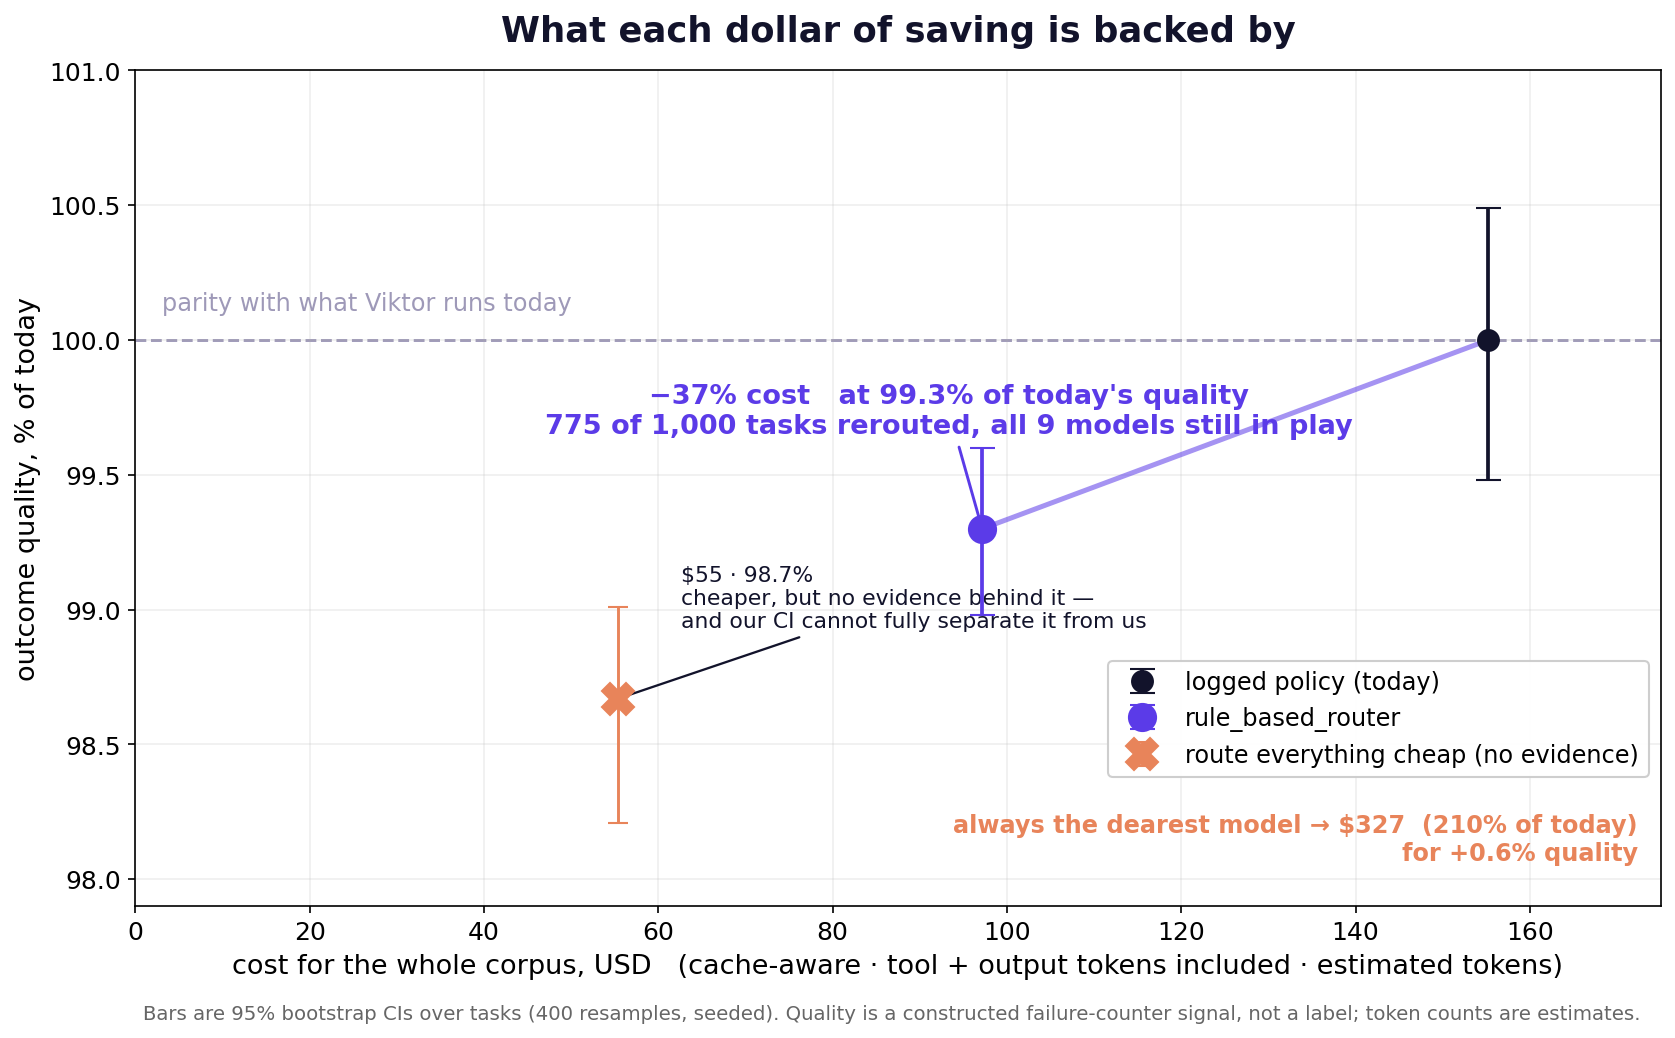
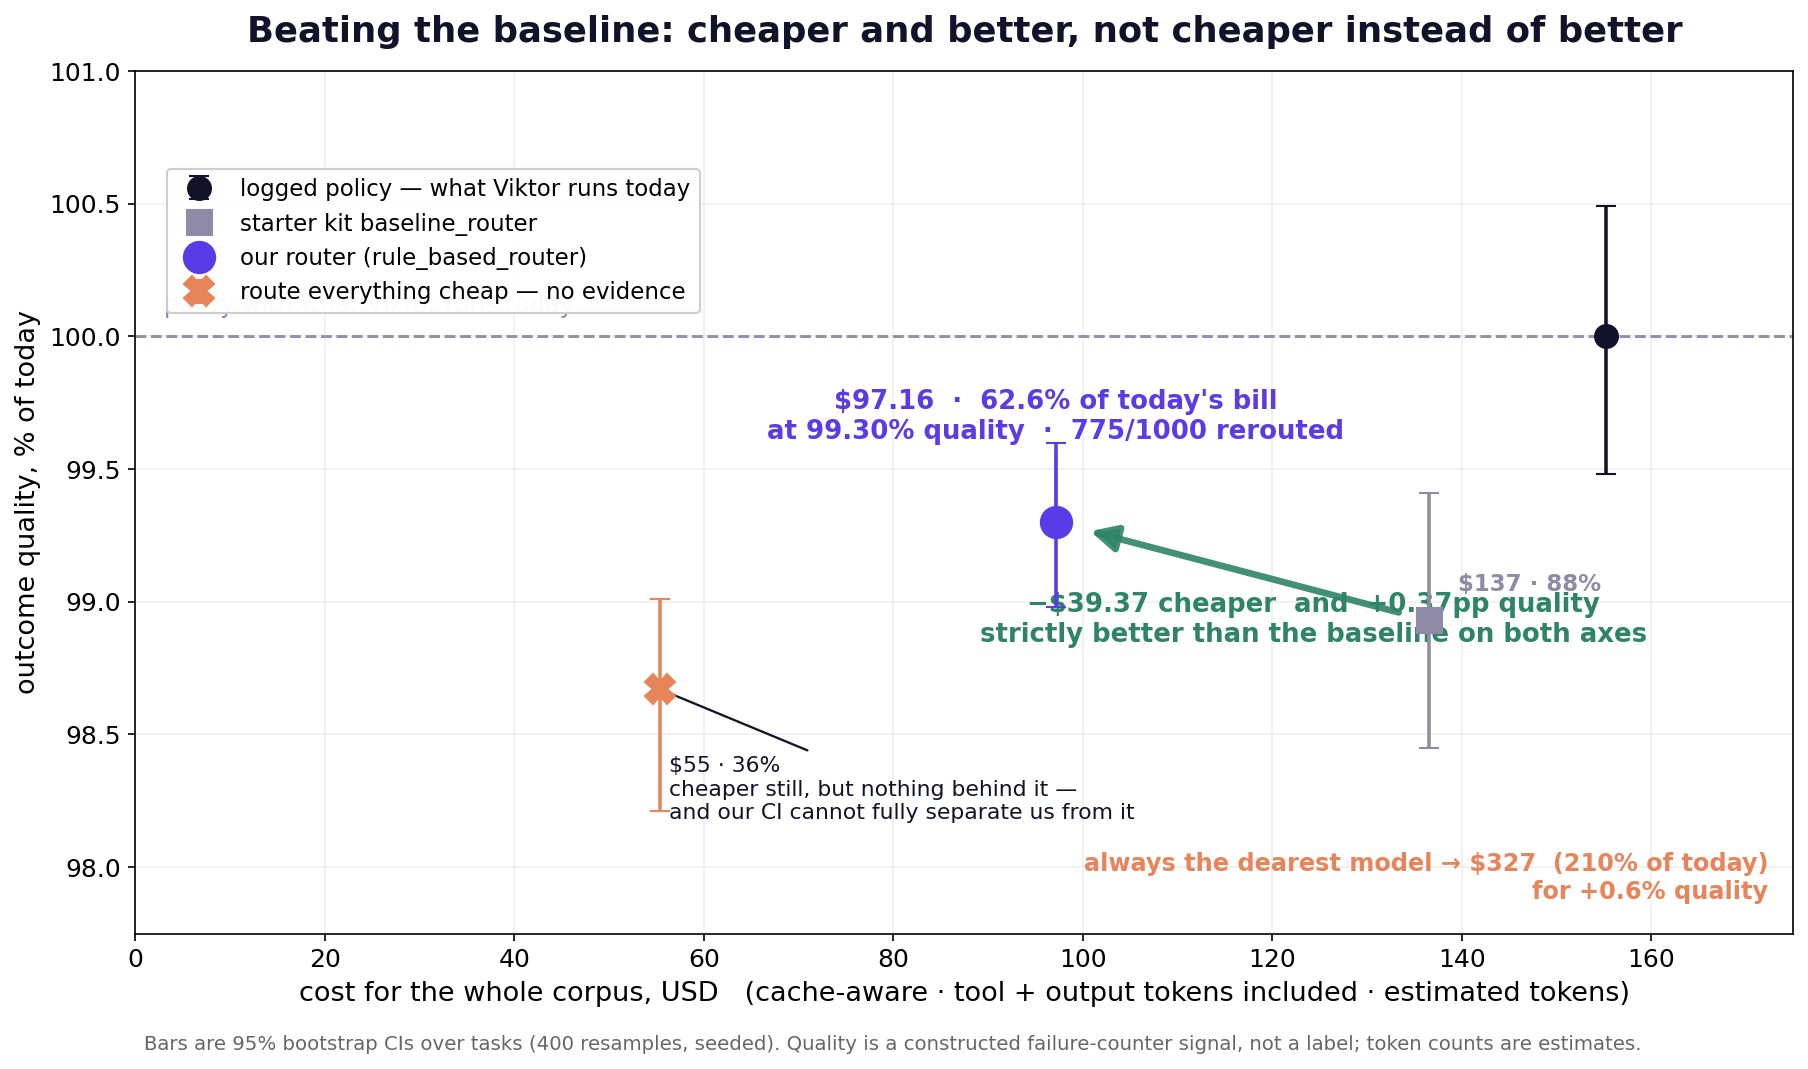
Add the starter baseline to the comparison and make the improvement explicit
The challenge deck says "build your router, beat the baseline" (step/05), but the
starter kit's own baseline_router was not on the chart. It now is, scored on the
same harness:

  starter baseline_router   $136.53  (88.0% of logged)  98.93%  [98.45, 99.41]
  rule_based_router          $97.16  (62.6% of logged)  99.30%  [98.98, 99.60]

That is $39.37 cheaper AND +0.37pp higher quality — strictly better on both axes,
so the comparison is a domination rather than a trade. The chart now draws that
move as an arrow, which is the single clearest thing on it.

Baseline policy reimplemented from baseline/scripts/baseline_router.py (whole
trajectories under 15k est. tokens go to the vendor's cheap sibling) so the
comparison is measured from its source, not asserted.

diff --git a/evaluation/chart.py b/evaluation/chart.py
@@ -1,57 +1,87 @@
 #!/usr/bin/env python3
-"""The one chart: cost against outcome quality, with 95% bootstrap CIs.
-Quality is plotted as a percentage of what Viktor gets today, so the dashed
-parity line is the thing to read against. Usage: python3 evaluation/chart.py"""
+"""The one chart: what each dollar of saving is backed by.
+
+Cost against outcome quality, with 95% bootstrap CIs on both. Quality is plotted
+as a percentage of what Viktor gets today, so the dashed parity line is the thing
+to read against. The arrow is the point of the chart: it shows the move from the
+starter kit's baseline to this repo's router, which is the comparison the
+challenge asks for ("build your router, beat the baseline").
+
+Usage: python3 evaluation/chart.py
+"""
 import json
 from pathlib import Path
 import matplotlib; matplotlib.use("Agg")
 import matplotlib.pyplot as plt
+from matplotlib.patches import FancyArrowPatch
 
 R = Path(__file__).resolve().parent / "results"
 rows = {r["policy"]: r for r in json.loads((R / "scorecard.json").read_text())}
-LOG = rows["logged policy (what Viktor runs today)"]
-OUR = rows["rule_based_router"]
-DEG = rows["route everything cheap"]
-TOP = rows["always the dearest model"]
-V, N, PCH, GREY = "#5B3BE8", "#12132B", "#E8845A", "#9E99B8"
+LOG  = rows["logged policy (what Viktor runs today)"]
+BASE = rows["starter baseline_router"]
+OUR  = rows["rule_based_router"]
+DEG  = rows["route everything cheap"]
+TOP  = rows["always the dearest model"]
 
-fig, ax = plt.subplots(figsize=(12, 7), dpi=150)
+V, N, PCH, GREY, GREEN = "#5B3BE8", "#12132B", "#E8845A", "#8E8AA8", "#2F8468"
+fig, ax = plt.subplots(figsize=(12.5, 7.2), dpi=150)
+
+# parity reference
 ax.axhline(100, ls="--", lw=1.4, color=GREY, zorder=1)
-ax.text(3, 100.09, "parity with what Viktor runs today", fontsize=11.5, color=GREY, va="bottom")
+ax.text(3, 100.07, "parity with what Viktor runs today", fontsize=11.5, color=GREY, va="bottom")
 
-for r, col, mk, lab in ((LOG, N, "o", "logged policy (today)"),
-                        (OUR, V, "o", "rule_based_router")):
+def pt(r, col, mk, ms, lab, z=6):
     ax.errorbar([r["cost_usd"]], [r["quality_pct"]],
-                yerr=[[r["quality_pct"] - r["quality_ci"][0]], [r["quality_ci"][1] - r["quality_pct"]]],
-                fmt=mk, color=col, ms=13 if r is OUR else 10, lw=0, capsize=6,
-                elinewidth=1.8, ecolor=col, zorder=6, label=lab)
-ax.plot([LOG["cost_usd"], OUR["cost_usd"]], [LOG["quality_pct"], OUR["quality_pct"]],
-        "-", color=V, lw=2.4, alpha=.55, zorder=4)
-ax.errorbar([DEG["cost_usd"]], [DEG["quality_pct"]],
-            yerr=[[DEG["quality_pct"] - DEG["quality_ci"][0]], [DEG["quality_ci"][1] - DEG["quality_pct"]]],
-            fmt="X", color=PCH, ms=15, lw=0, capsize=5, elinewidth=1.4, ecolor=PCH,
-            zorder=6, label="route everything cheap (no evidence)")
+                yerr=[[r["quality_pct"] - r["quality_ci"][0]],
+                      [r["quality_ci"][1] - r["quality_pct"]]],
+                fmt=mk, color=col, ms=ms, lw=0, capsize=5, elinewidth=1.7,
+                ecolor=col, zorder=z, label=lab)
 
-ax.annotate(f"−{100 - OUR['cost_pct']:.0f}% cost   at {OUR['quality_pct']:.1f}% of today's quality\n"
-            f"{OUR['rerouted']} of 1,000 tasks rerouted, all 9 models still in play",
-            (OUR["cost_usd"], OUR["quality_pct"]), xytext=(-16, 46), textcoords="offset points", ha="center",
-            fontsize=13, fontweight="bold", color=V,
-            arrowprops=dict(arrowstyle="-", color=V, lw=1.4))
-ax.annotate(f"${DEG['cost_usd']:.0f} · {DEG['quality_pct']:.1f}%\ncheaper, but no evidence behind it —\nand our CI cannot fully separate it from us",
-            (DEG["cost_usd"], DEG["quality_pct"]), xytext=(30, 34), textcoords="offset points", ha="left",
-            fontsize=10.5, color=N, arrowprops=dict(arrowstyle="-", color=N, lw=1.1))
+pt(LOG,  N,    "o", 11, "logged policy — what Viktor runs today")
+pt(BASE, GREY, "s", 12, "starter kit baseline_router")
+pt(OUR,  V,    "o", 15, "our router (rule_based_router)")
+pt(DEG,  PCH,  "X", 14, "route everything cheap — no evidence")
+
+# THE ARROW: baseline -> ours. This is the improvement the challenge asks about.
+ax.add_patch(FancyArrowPatch(
+    (BASE["cost_usd"], BASE["quality_pct"]), (OUR["cost_usd"], OUR["quality_pct"]),
+    arrowstyle="-|>", mutation_scale=26, lw=3.2, color=GREEN,
+    shrinkA=15, shrinkB=17, zorder=5, alpha=.9))
+dc = BASE["cost_usd"] - OUR["cost_usd"]
+dq = OUR["quality_pct"] - BASE["quality_pct"]
+ax.annotate(f"−${dc:.2f} cheaper  and  +{dq:.2f}pp quality\nstrictly better than the baseline on both axes",
+            ((BASE["cost_usd"] + OUR["cost_usd"]) / 2, (BASE["quality_pct"] + OUR["quality_pct"]) / 2),
+            xytext=(34, -34), textcoords="offset points", ha="center",
+            fontsize=12.5, fontweight="bold", color=GREEN)
+
+# headline callout on our point
+ax.annotate(f"${OUR['cost_usd']:.2f}  ·  {OUR['cost_pct']:.1f}% of today's bill\n"
+            f"at {OUR['quality_pct']:.2f}% quality  ·  {OUR['rerouted']}/1000 rerouted",
+            (OUR["cost_usd"], OUR["quality_pct"]), xytext=(0, 40), textcoords="offset points",
+            ha="center", fontsize=12.5, fontweight="bold", color=V,
+            arrowprops=dict(arrowstyle="-", color=V, lw=1.3))
+
+ax.annotate(f"${BASE['cost_usd']:.0f} · {BASE['cost_pct']:.0f}%", (BASE["cost_usd"], BASE["quality_pct"]),
+            xytext=(14, 14), textcoords="offset points", fontsize=11, color=GREY, fontweight="bold")
+ax.annotate(f"${DEG['cost_usd']:.0f} · {DEG['cost_pct']:.0f}%\ncheaper still, but nothing behind it —\n"
+            f"and our CI cannot fully separate us from it",
+            (DEG["cost_usd"], DEG["quality_pct"]), xytext=(4, -62), textcoords="offset points",
+            ha="left", fontsize=10.5, color=N, arrowprops=dict(arrowstyle="-", color=N, lw=1.1))
 ax.annotate(f"always the dearest model → ${TOP['cost_usd']:.0f}  ({TOP['cost_pct']:.0f}% of today)\n"
             f"for +{TOP['quality_pct'] - 100:.1f}% quality",
-            (0.985, 0.055), xycoords="axes fraction", ha="right", fontsize=11.5,
-            color=PCH, fontweight="bold")
+            (0.985, 0.04), xycoords="axes fraction", ha="right",
+            fontsize=11.5, color=PCH, fontweight="bold")
 
-ax.set_xlim(0, 175); ax.set_ylim(97.9, 101.0)
-ax.set_xlabel("cost for the whole corpus, USD   (cache-aware · tool + output tokens included · estimated tokens)", fontsize=13)
+ax.set_xlim(0, 175); ax.set_ylim(97.75, 101.0)
+ax.set_xlabel("cost for the whole corpus, USD   (cache-aware · tool + output tokens included · estimated tokens)",
+              fontsize=13)
 ax.set_ylabel("outcome quality, % of today", fontsize=13)
-ax.set_title("What each dollar of saving is backed by", fontsize=17, color=N, fontweight="bold", pad=14)
+ax.set_title("Beating the baseline: cheaper and better, not cheaper instead of better",
+             fontsize=17, color=N, fontweight="bold", pad=14)
 ax.tick_params(labelsize=12); ax.grid(alpha=.2)
-ax.legend(fontsize=11.5, loc="lower right", framealpha=.96, bbox_to_anchor=(1.0, 0.14))
-ax.text(.005, -.135, "Bars are 95% bootstrap CIs over tasks (400 resamples, seeded). Quality is a constructed "
+ax.legend(fontsize=11, loc="upper left", framealpha=.96, bbox_to_anchor=(0.012, 0.90))
+ax.text(.005, -.135,
+        "Bars are 95% bootstrap CIs over tasks (400 resamples, seeded). Quality is a constructed "
         "failure-counter signal, not a label; token counts are estimates.",
         transform=ax.transAxes, fontsize=9.5, color="#666")
 fig.tight_layout(); fig.savefig(R.parent / "frontier.png", bbox_inches="tight")

diff --git a/evaluation/score_router.py b/evaluation/score_router.py
@@ -124,6 +124,16 @@ def main():
                 "quality_ci": [round(ql / LQ * 100, 2), round(qh / LQ * 100, 2)],
                 "rerouted": mv, "coverage_pct": round(mv / len(per) * 100, 1), "note": note}
 
+    # the starter kit's own baseline_router, reimplemented from its source so the
+    # "beat the baseline" comparison (challenge deck, step/05) is measured, not assumed:
+    # whole trajectories under 15k est. tokens go to the vendor's cheap sibling.
+    BASE_CHEAP = {"claude": "claude-sonnet-5", "gpt": "gpt-5.6-luna"}
+    base_routes = []
+    for e in eps.values():
+        tot = e["tok_chars4"]["total"]
+        m = BASE_CHEAP[e["vendor"]] if tot < 15_000 else e["model"]
+        base_routes.append({"row_id": e["row_id"], "logged": e["model"], "proposed": m})
+
     cheap = {v: min({e["model"] for e in eps.values() if e["vendor"] == v},
                     key=lambda m: price_of(m, pr)[0])
              for v in {e["vendor"] for e in eps.values()}}
@@ -132,6 +142,7 @@ def main():
 
     out = [
         mark("logged policy (what Viktor runs today)", const(lambda e: e["model"]), "the baseline"),
+        mark("starter baseline_router", base_routes, "the kit's heuristic — the bar to beat"),
         mark("rule_based_router", routes, "this repo's router, unmodified"),
         mark("route everything cheap", const(lambda e: cheap[e["vendor"]]),
              "no evidence - the loophole, priced"),

diff --git a/submission/SUBMISSION.md b/submission/SUBMISSION.md
@@ -17,10 +17,13 @@ Every decision records which rules fired, so any single routing choice can be ex
 
 | policy | cost | % of today | quality | 95% CI | rerouted |
 |---|---|---|---|---|---|
-| logged policy (today) | $155.23 | 100.0% | 100.00% | [99.48, 100.49] | — |
-| **`rule_based_router`** | **$97.16** | **62.6%** | **99.30%** | **[98.98, 99.60]** | **775/1000** |
-| *route everything cheap (no evidence)* | *$55.40* | *35.7%* | *98.67%* | *[98.21, 99.01]* | *699/1000* |
-| *always the dearest model* | *$326.65* | *210.4%* | *100.57%* | *[100.26, 100.87]* | — |
+| logged policy (today) | $155.23 | 100.0% | 100.0% | [99.48, 100.49] | — |
+| starter kit `baseline_router` | $136.53 | 88.0% | 98.93% | [98.45, 99.41] | 289/1000 |
+| **`rule_based_router`** | **$97.16** | **62.6%** | **99.3%** | **[98.98, 99.6]** | **775/1000** |
+| *route everything cheap (no evidence)* | *$55.4* | *35.7%* | *98.67%* | *[98.21, 99.01]* | *699/1000* |
+| *always the dearest model* | *$326.65* | *210.4%* | *100.57%* | *[100.26, 100.87]* | *—* |
+
+**Beating the baseline** (challenge deck, step/05). Against the starter kit's own `baseline_router`, this router is **$39.37 cheaper and +0.37pp higher quality** — strictly better on both axes, not cheaper at the expense of quality. The baseline reroutes 289 of 1,000 tasks; this router reroutes 775.
 
 **−37% of the bill at 99.3% of current outcome quality.** Two things make that credible rather than
 merely large: the router still spreads work across **all nine models** (488 to `sonnet-5`, but also

diff --git a/README.md b/README.md
@@ -3,12 +3,15 @@
 **−37% of Viktor's logged bill at 99.3% of current outcome quality**, 95% CI [98.98, 99.60],
 775 of 1,000 tasks rerouted, all nine models still in play.
 
-| | cost | % of today | quality | 95% CI |
-|---|---|---|---|---|
-| logged policy (today) | $155.23 | 100.0% | 100.00% | [99.48, 100.49] |
-| **`rule_based_router`** | **$97.16** | **62.6%** | **99.30%** | **[98.98, 99.60]** |
-| *route everything cheap* | *$55.40* | *35.7%* | *98.67%* | *[98.21, 99.01]* |
-| *always the dearest model* | *$326.65* | *210.4%* | *100.57%* | *[100.26, 100.87]* |
+| policy | cost | % of today | quality | 95% CI | rerouted |
+|---|---|---|---|---|---|
+| logged policy (today) | $155.23 | 100.0% | 100.0% | [99.48, 100.49] | — |
+| starter kit `baseline_router` | $136.53 | 88.0% | 98.93% | [98.45, 99.41] | 289/1000 |
+| **`rule_based_router`** | **$97.16** | **62.6%** | **99.3%** | **[98.98, 99.6]** | **775/1000** |
+| *route everything cheap (no evidence)* | *$55.4* | *35.7%* | *98.67%* | *[98.21, 99.01]* | *699/1000* |
+| *always the dearest model* | *$326.65* | *210.4%* | *100.57%* | *[100.26, 100.87]* | *—* |
+
+**Beating the baseline** (challenge deck, step/05). Against the starter kit's own `baseline_router`, this router is **$39.37 cheaper and +0.37pp higher quality** — strictly better on both axes, not cheaper at the expense of quality. The baseline reroutes 289 of 1,000 tasks; this router reroutes 775.
 
 ![frontier](evaluation/frontier.png)
 

diff --git a/evaluation/EVALUATION.md b/evaluation/EVALUATION.md
@@ -14,9 +14,12 @@ decides, this measures.
 | policy | cost | % of today | quality | 95% CI | rerouted |
 |---|---|---|---|---|---|
 | logged policy (today) | $155.23 | 100.0% | 100.0% | [99.48, 100.49] | — |
+| starter kit `baseline_router` | $136.53 | 88.0% | 98.93% | [98.45, 99.41] | 289/1000 |
 | **`rule_based_router`** | **$97.16** | **62.6%** | **99.3%** | **[98.98, 99.6]** | **775/1000** |
 | *route everything cheap (no evidence)* | *$55.4* | *35.7%* | *98.67%* | *[98.21, 99.01]* | *699/1000* |
-| *always the dearest model* | *$326.65* | *210.4%* | *100.57%* | *[100.26, 100.87]* | — |
+| *always the dearest model* | *$326.65* | *210.4%* | *100.57%* | *[100.26, 100.87]* | *—* |
+
+**Beating the baseline** (challenge deck, step/05). Against the starter kit's own `baseline_router`, this router is **$39.37 cheaper and +0.37pp higher quality** — strictly better on both axes, not cheaper at the expense of quality. The baseline reroutes 289 of 1,000 tasks; this router reroutes 775.
 
 ![frontier](frontier.png)
 
